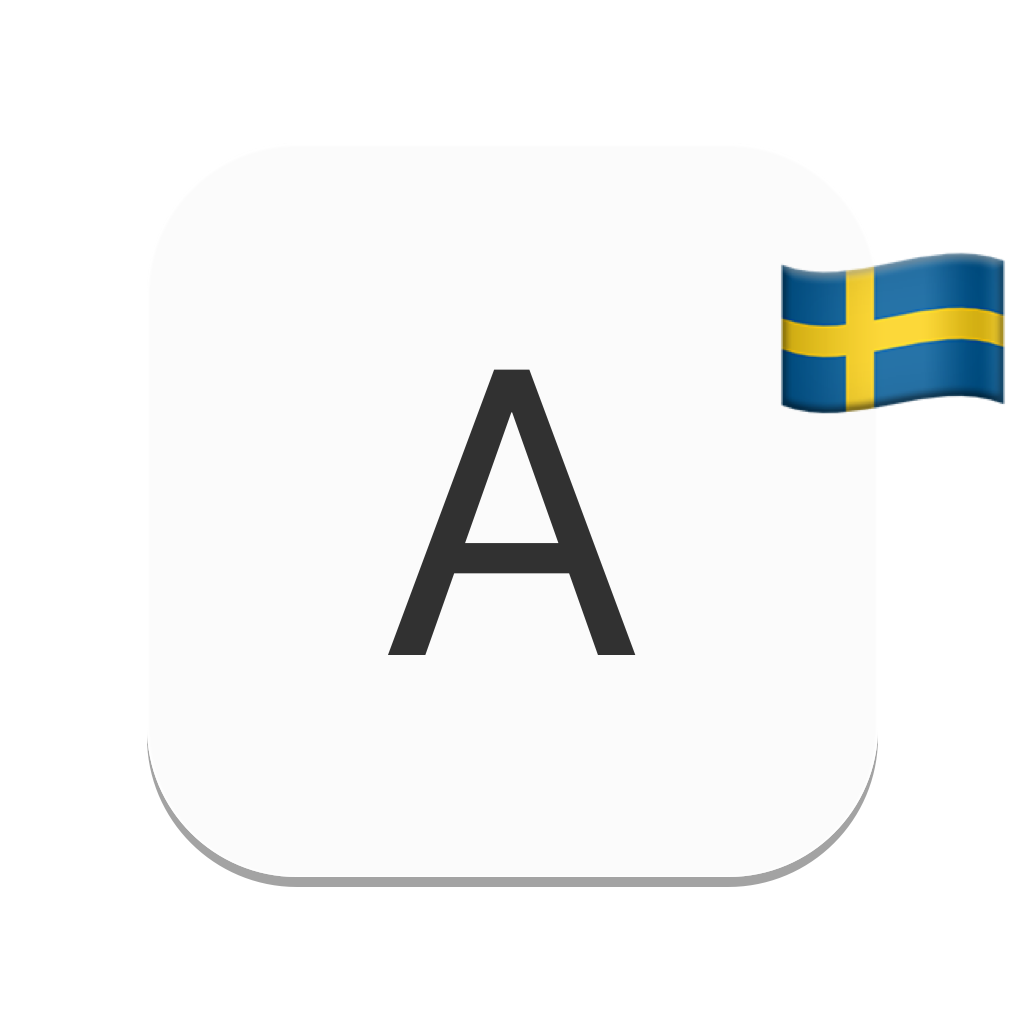
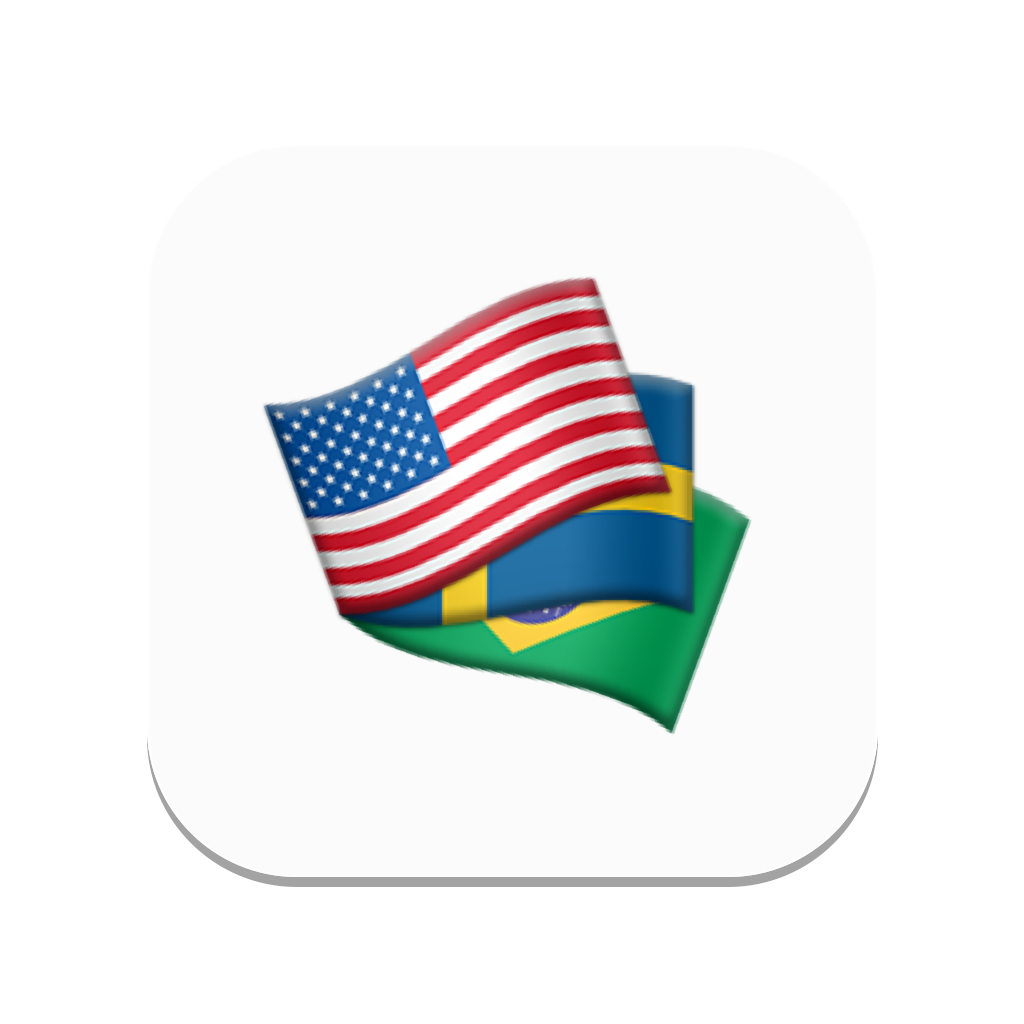
Add locales page

Changed region(s): [[0.25, 0.25, 0.75, 0.7188], [0.75, 0.25, 1.0, 0.4062]]

diff --git a/_includes/heros/hero-content.html b/_includes/heros/hero-content.html
@@ -4,6 +4,8 @@
     {% include heros/about.html %}
 {% elsif page.hero == "features" %}
     {% include heros/features.html %}
+{% elsif page.hero == "locales" %}
+    {% include heros/locales.html %}
 {% elsif page.hero == "open-source" %}
     {% include heros/open-source.html %}
 {% elsif page.hero == "pro" %}

diff --git a/_includes/heros/locales.html b/_includes/heros/locales.html
@@ -1,0 +1,3 @@
+<h1>Locales</h1>
+<p>{{page.description}}</p>
+<img src="/assets/heros/features.png" alt="KeyboardKit icon with flag" title="Locales" />

diff --git a/pages/locales.md b/pages/locales.md
@@ -1,0 +1,16 @@
+---
+layout: page
+title: Locales
+permalink: /locales
+hero: locales
+
+description: KeyboardKit supports 60 locales and lets you create keyboards with localized input keys, callouts, autocomplete etc.
+---
+
+KeyboardKit comes with support for <b>{% include locales/count.html %}</b> keyboard locales, with more being added over time:
+
+{% include locales/list.html %}
+
+KeyboardKit adds locale-specific information and localized strings for all locales and lets you create localized keyboards with little effort.
+
+These locales are supported by many of the various [features](/features) that the library has to offer.
